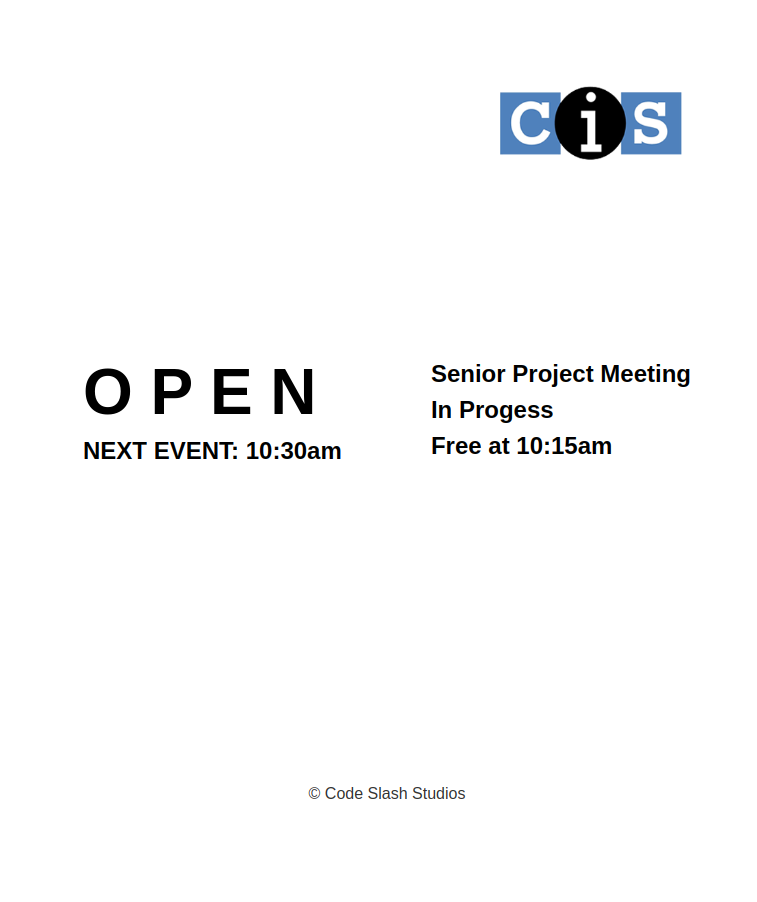
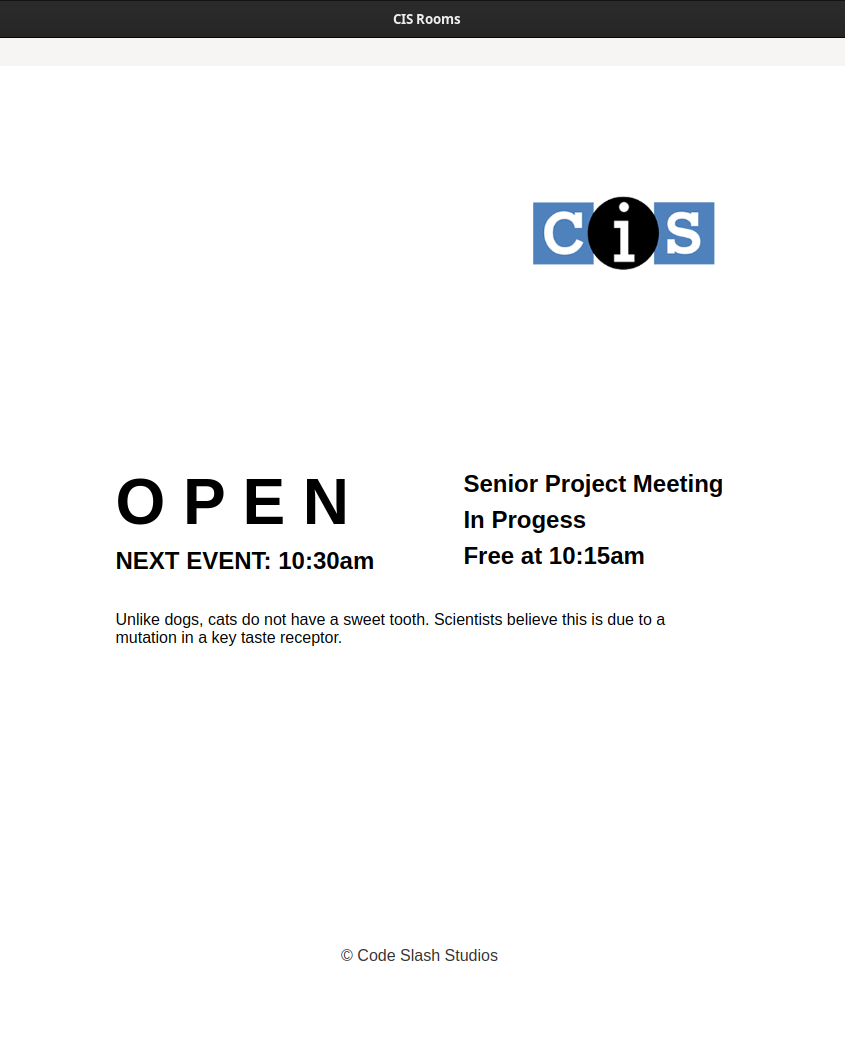
added dummy api request

diff --git a/cis-rooms/src/renderer.js b/cis-rooms/src/renderer.js
@@ -1,16 +1,23 @@
-document.addEventListener("DOMContentLoaded", async () => {
-  const displayElement = document.getElementById("result"); // Ensure an element exists in HTML
-  let catFact = ""; // Variable to store the fetched data
+document.addEventListener("DOMContentLoaded", () => {
+  const displayElement = document.getElementById("result");
 
-  try {
-    const response = await fetch("https://catfact.ninja/fact");
-    const data = await response.json();
-    catFact = data.fact; // Store the fact in the variable
+  async function fetchAndUpdate() {
+    try {
+      const response = await fetch("https://catfact.ninja/fact");
 
-    // Update the HTML
-    displayElement.innerHTML = `<p>${catFact}</p>`;
-  } catch (error) {
-    console.error("Fetch error:", error);
-    displayElement.innerHTML = `<p>Error fetching data</p>`;
+      if (!response.ok) {
+        throw new Error(`HTTP error! Status: ${response.status}`);
+      }
+
+      const data = await response.json();
+      displayElement.innerHTML = `<p>${data.fact}</p>`;
+    } catch (error) {
+      console.error("Fetch error:", error);
+      displayElement.innerHTML = `<p>Error fetching data: ${error.message}</p>`;
+    }
   }
+
+  fetchAndUpdate(); // Fetch immediately on load
+
+  setInterval(fetchAndUpdate, 10000); // Update every 10 seconds
 });
